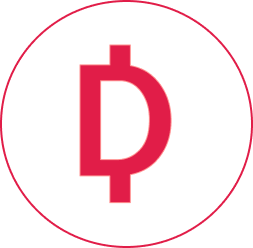
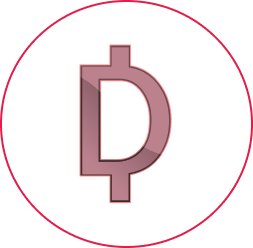
add: DON Token

Changed region(s): [[0.3043, 0.1694, 0.6917, 0.8185]]

diff --git a/src/data/token.data.ts b/src/data/token.data.ts
@@ -8,6 +8,7 @@ import XONLogo from "data-base64:/assets/tokens/xon.png"
 import IDONLogo from "data-base64:/assets/tokens/idon.png"
 import MPCLogo from "data-base64:/assets/tokens/mpc.png"
 import IMPCLogo from "data-base64:/assets/tokens/impc.png"
+import DONLogo from "data-base64:/assets/tokens/don.png"
 
 import DefaultLogo from "data-base64:/assets/tokens/default.png"
 
@@ -92,6 +93,15 @@ export const TokenData: TokenModel[] = [
     network_id: 8,
     symbol: "IMPC",
     description: "Private MPC Token"
+  },
+  {
+    id: 9,
+    image_url: "DONLogo",
+    type: "Asset",
+    network: "Xode",
+    network_id: 8,
+    symbol: "DON",
+    description: "Dondon Utility Token"
   }
 ]
 
@@ -107,6 +117,7 @@ export class TokenImages {
       case "IDONLogo": return IDONLogo
       case "MPCLogo": return MPCLogo
       case "IMPCLogo": return IMPCLogo
+      case "DONLogo": return DONLogo
       default: return DefaultLogo
     }
   }
